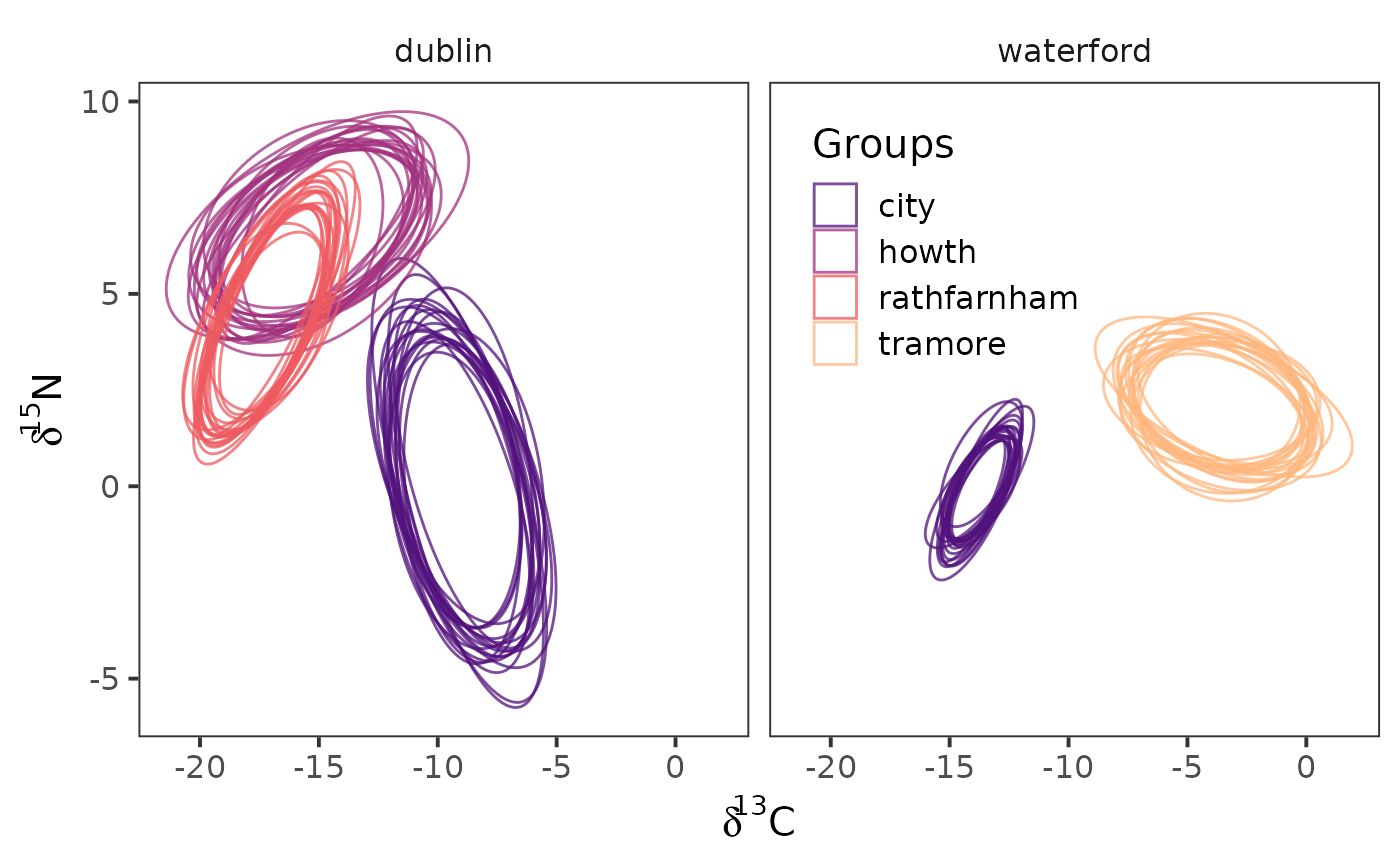
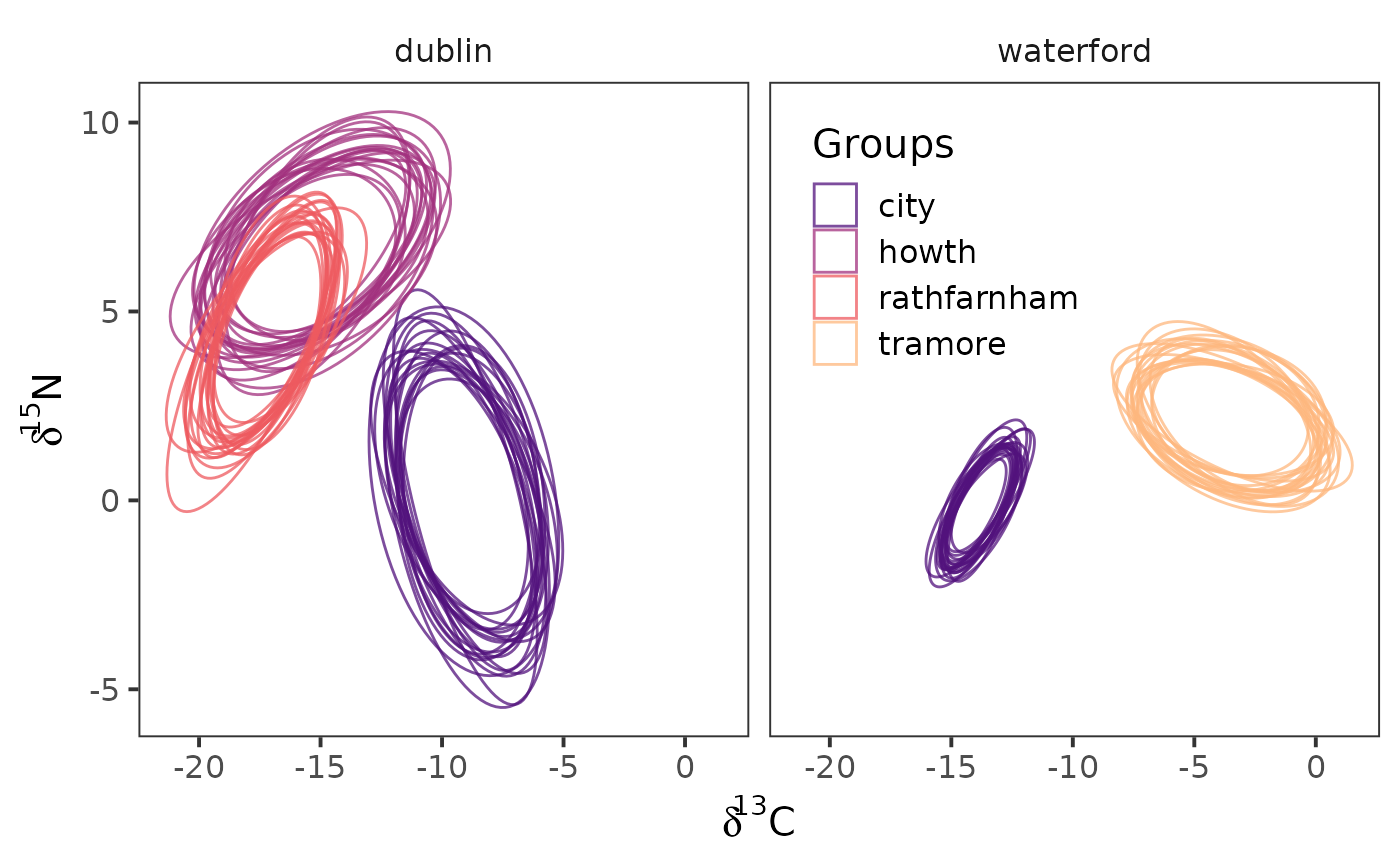
Deploying to gh-pages from @ benjaminhlina/nichetools@67d85a48c8a591d03839ffcb1a4c4b0eb8b37adc 🚀

diff --git a/articles/using-nichetools-with-the-package-SIBER.html b/articles/using-nichetools-with-the-package-SIBER.html
@@ -185,8 +185,7 @@ done because it is unlikely you will have communities and groups named
 <p>We will then plot our biplot to confirm we have the correct
 stucture.</p>
 <div class="sourceCode" id="cb7"><pre class="downlit sourceCode r">
-<code class="sourceCode R"><span><span class="co"># ---- plot to confirm correct structure ----</span></span>
-<span><span class="fu"><a href="https://ggplot2.tidyverse.org/reference/ggplot.html" class="external-link">ggplot</a></span><span class="op">(</span>data <span class="op">=</span> <span class="va">demo.siber.data.2</span>, <span class="fu"><a href="https://ggplot2.tidyverse.org/reference/aes.html" class="external-link">aes</a></span><span class="op">(</span>x <span class="op">=</span> <span class="va">iso1</span>, y <span class="op">=</span> <span class="va">iso2</span>,</span>
+<code class="sourceCode R"><span><span class="fu"><a href="https://ggplot2.tidyverse.org/reference/ggplot.html" class="external-link">ggplot</a></span><span class="op">(</span>data <span class="op">=</span> <span class="va">demo.siber.data.2</span>, <span class="fu"><a href="https://ggplot2.tidyverse.org/reference/aes.html" class="external-link">aes</a></span><span class="op">(</span>x <span class="op">=</span> <span class="va">iso1</span>, y <span class="op">=</span> <span class="va">iso2</span>,</span>
 <span>                             colour <span class="op">=</span> <span class="va">group</span><span class="op">)</span><span class="op">)</span> <span class="op">+</span></span>
 <span>  <span class="fu"><a href="https://ggplot2.tidyverse.org/reference/geom_point.html" class="external-link">geom_point</a></span><span class="op">(</span><span class="op">)</span> <span class="op">+</span></span>
 <span>  <span class="fu"><a href="https://ggplot2.tidyverse.org/reference/facet_wrap.html" class="external-link">facet_wrap</a></span><span class="op">(</span><span class="op">~</span> <span class="va">community</span><span class="op">)</span> <span class="op">+</span> </span>
@@ -205,7 +204,7 @@ stucture.</p>
 <span>    x <span class="op">=</span> <span class="fu"><a href="https://rdrr.io/r/base/expression.html" class="external-link">expression</a></span><span class="op">(</span><span class="fu"><a href="https://rdrr.io/r/base/paste.html" class="external-link">paste</a></span><span class="op">(</span><span class="va">delta</span><span class="op">^</span><span class="fl">13</span>,<span class="st">"C"</span><span class="op">)</span><span class="op">)</span>, </span>
 <span>    y <span class="op">=</span> <span class="fu"><a href="https://rdrr.io/r/base/expression.html" class="external-link">expression</a></span><span class="op">(</span><span class="fu"><a href="https://rdrr.io/r/base/paste.html" class="external-link">paste</a></span><span class="op">(</span><span class="va">delta</span><span class="op">^</span><span class="fl">15</span>,<span class="st">"N"</span><span class="op">)</span><span class="op">)</span> </span>
 <span>  <span class="op">)</span></span></code></pre></div>
-<p><img src="using-nichetools-with-the-package-SIBER_files/figure-html/unnamed-chunk-5-1.png" width="700"></p>
+<p><img src="using-nichetools-with-the-package-SIBER_files/figure-html/unnamed-chunk-5-1.png" width="100%"></p>
 <p>Next we will grab the isotopes we need and the community and group
 ids, will will then rename them to community and group. This is
 important as <code>creatSiberObject()</code> will 1) only take the
@@ -313,7 +312,7 @@ are correct by plotting them with {ggplot2}</p>
 <span>    x <span class="op">=</span> <span class="fu"><a href="https://rdrr.io/r/base/expression.html" class="external-link">expression</a></span><span class="op">(</span><span class="fu"><a href="https://rdrr.io/r/base/paste.html" class="external-link">paste</a></span><span class="op">(</span><span class="va">delta</span><span class="op">^</span><span class="fl">13</span>,<span class="st">"C"</span><span class="op">)</span><span class="op">)</span>, </span>
 <span>    y <span class="op">=</span> <span class="fu"><a href="https://rdrr.io/r/base/expression.html" class="external-link">expression</a></span><span class="op">(</span><span class="fu"><a href="https://rdrr.io/r/base/paste.html" class="external-link">paste</a></span><span class="op">(</span><span class="va">delta</span><span class="op">^</span><span class="fl">15</span>,<span class="st">"N"</span><span class="op">)</span><span class="op">)</span> </span>
 <span>  <span class="op">)</span></span></code></pre></div>
-<p><img src="using-nichetools-with-the-package-SIBER_files/figure-html/unnamed-chunk-12-1.png" width="700"></p>
+<p><img src="using-nichetools-with-the-package-SIBER_files/figure-html/unnamed-chunk-12-1.png" width="100%"></p>
 <p>Notice how there is a density of points in the center of the raw data
 with the corresponding colours. This indicates that how the model is
 iterating over the groups and communities we have the nameing of
@@ -351,10 +350,13 @@ you would like the function to not randomly sample set the argument
 <code>random</code> to <code>FALSE</code>. 4) by default it will tell
 you how long it takes to generate the ellipse and will have progress
 bars at each step. If you want to turn this off set <code>message</code>
-to <code>FALSE</code>.</p>
+to <code>FALSE</code>. 5) if you are wanting to change the confidence
+level of the ellipse you can do so using the argument
+<code>p_ell</code>. This value is bound between 0 and 1.</p>
 <div class="sourceCode" id="cb17"><pre class="downlit sourceCode r">
 <code class="sourceCode R"><span><span class="va">df_el</span> <span class="op">&lt;-</span> <span class="fu"><a href="../reference/niche_ellipse.html">niche_ellipse</a></span><span class="op">(</span>dat_mu <span class="op">=</span> <span class="va">df_mu_long</span>,</span>
-<span>                       dat_sigma <span class="op">=</span> <span class="va">df_sigma</span>, set_seed <span class="op">=</span> <span class="fl">4</span>, n <span class="op">=</span> <span class="fl">20</span><span class="op">)</span> <span class="op"><a href="https://magrittr.tidyverse.org/reference/pipe.html" class="external-link">%&gt;%</a></span></span>
+<span>                       dat_sigma <span class="op">=</span> <span class="va">df_sigma</span>, </span>
+<span>                       set_seed <span class="op">=</span> <span class="fl">4</span>, n <span class="op">=</span> <span class="fl">20</span><span class="op">)</span> <span class="op"><a href="https://magrittr.tidyverse.org/reference/pipe.html" class="external-link">%&gt;%</a></span></span>
 <span>  <span class="fu"><a href="https://tidyr.tidyverse.org/reference/separate_wider_delim.html" class="external-link">separate_wider_delim</a></span><span class="op">(</span><span class="va">sample_name</span>, cols_remove <span class="op">=</span> <span class="cn">FALSE</span>,</span>
 <span>                       delim <span class="op">=</span> <span class="st">"."</span>, names <span class="op">=</span> <span class="fu"><a href="https://rdrr.io/r/base/c.html" class="external-link">c</a></span><span class="op">(</span><span class="st">"community_id"</span>,</span>
 <span>                                              <span class="st">"group_id"</span><span class="op">)</span><span class="op">)</span> <span class="op"><a href="https://magrittr.tidyverse.org/reference/pipe.html" class="external-link">%&gt;%</a></span></span>
